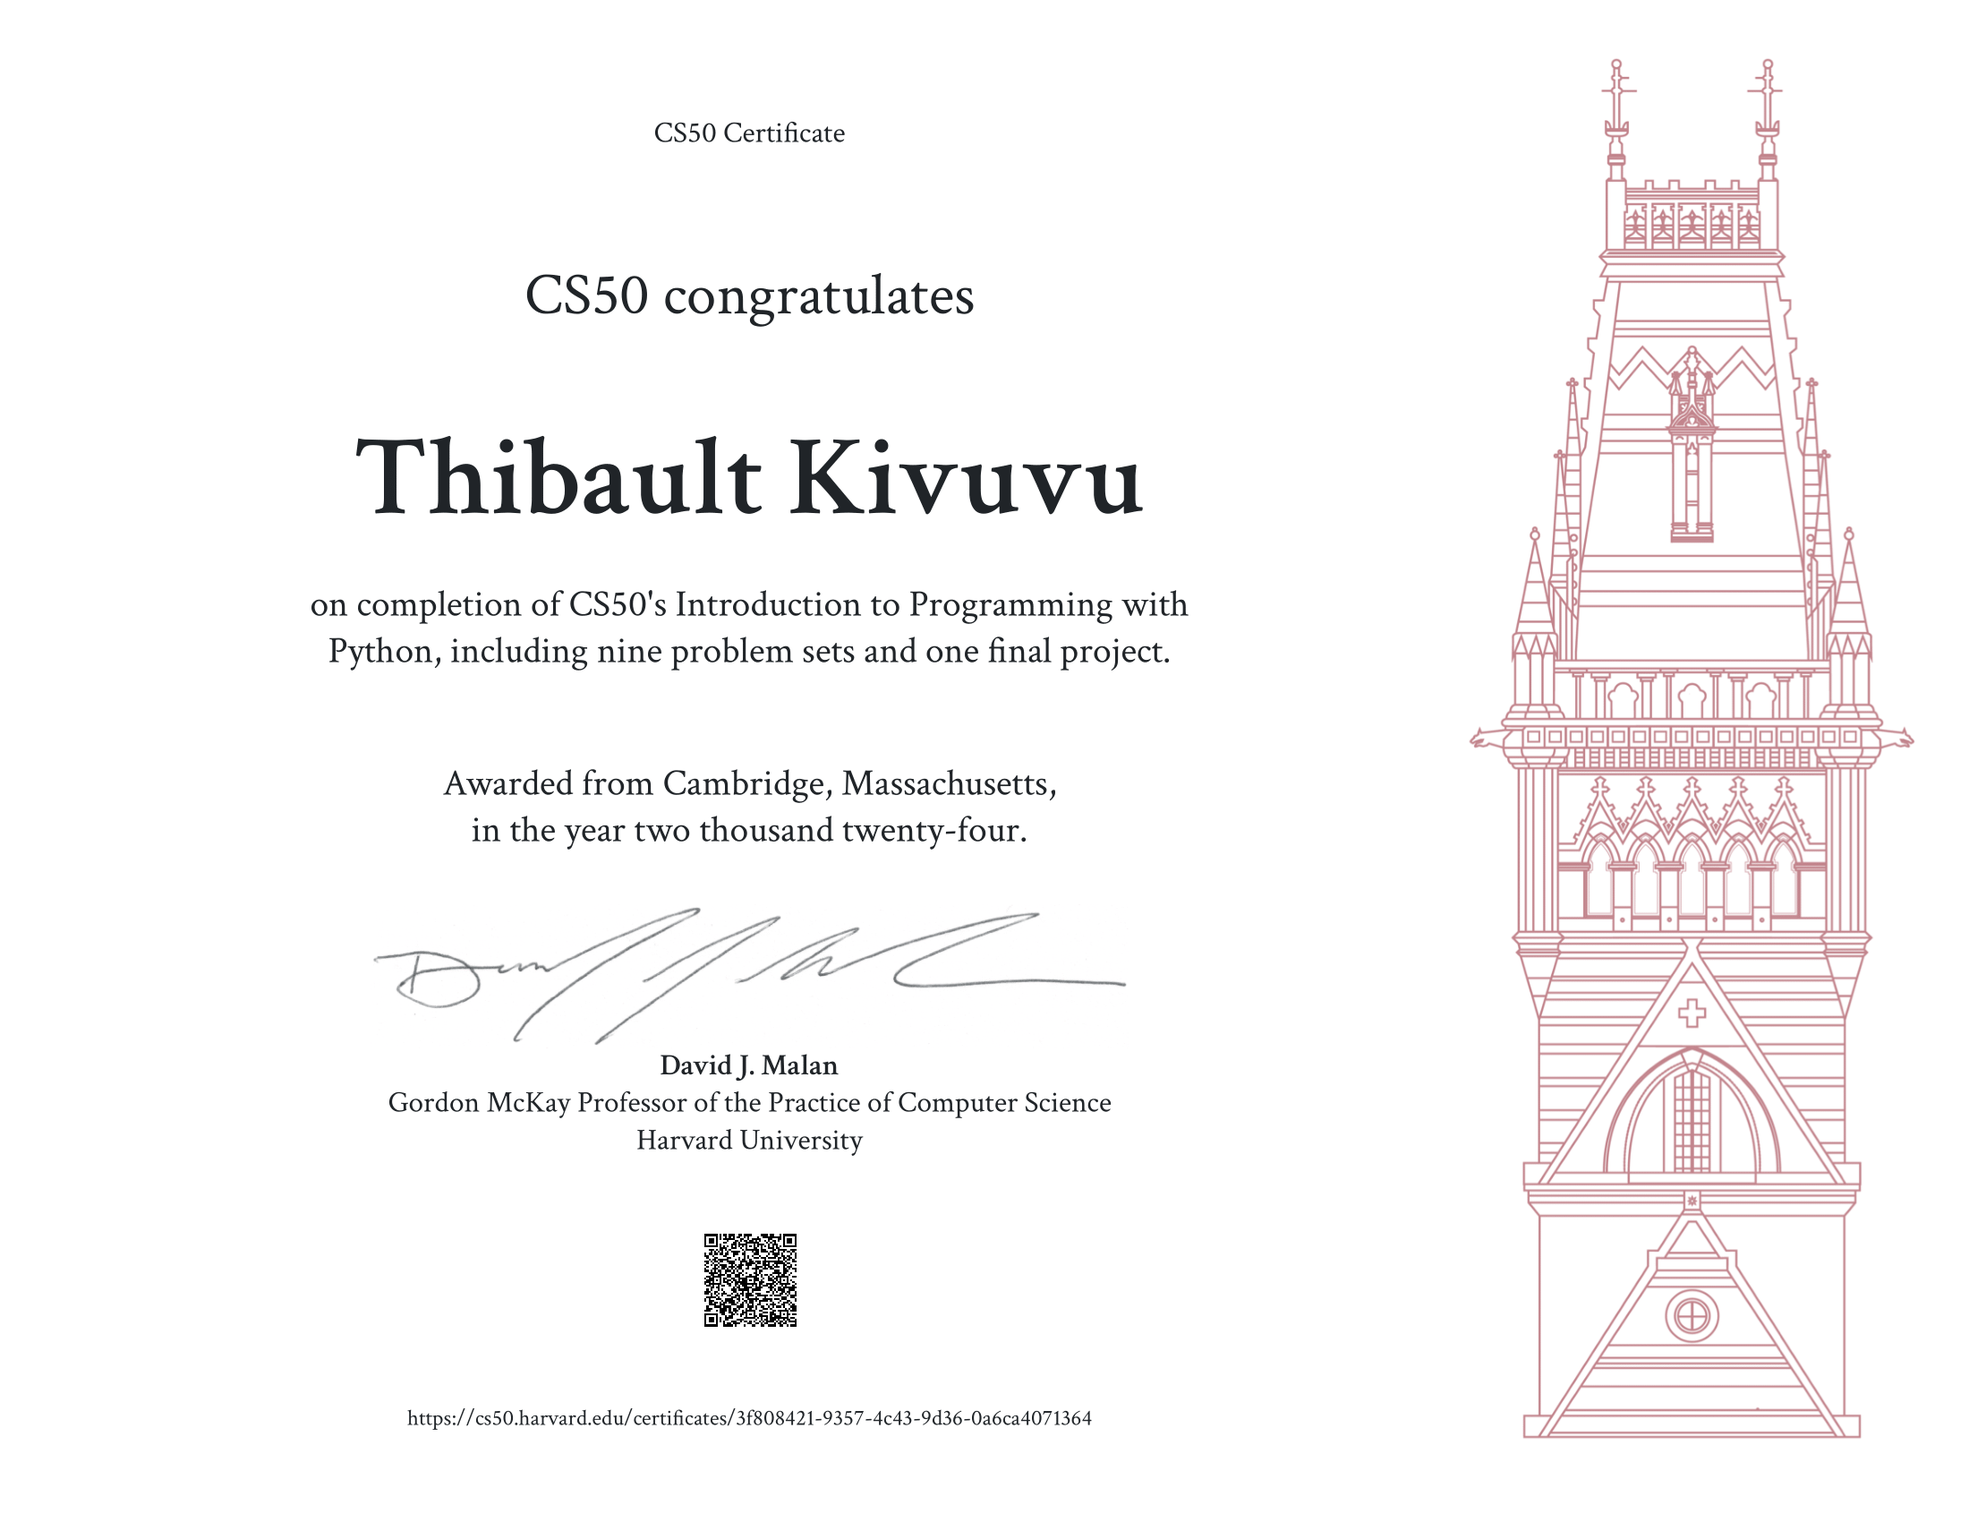
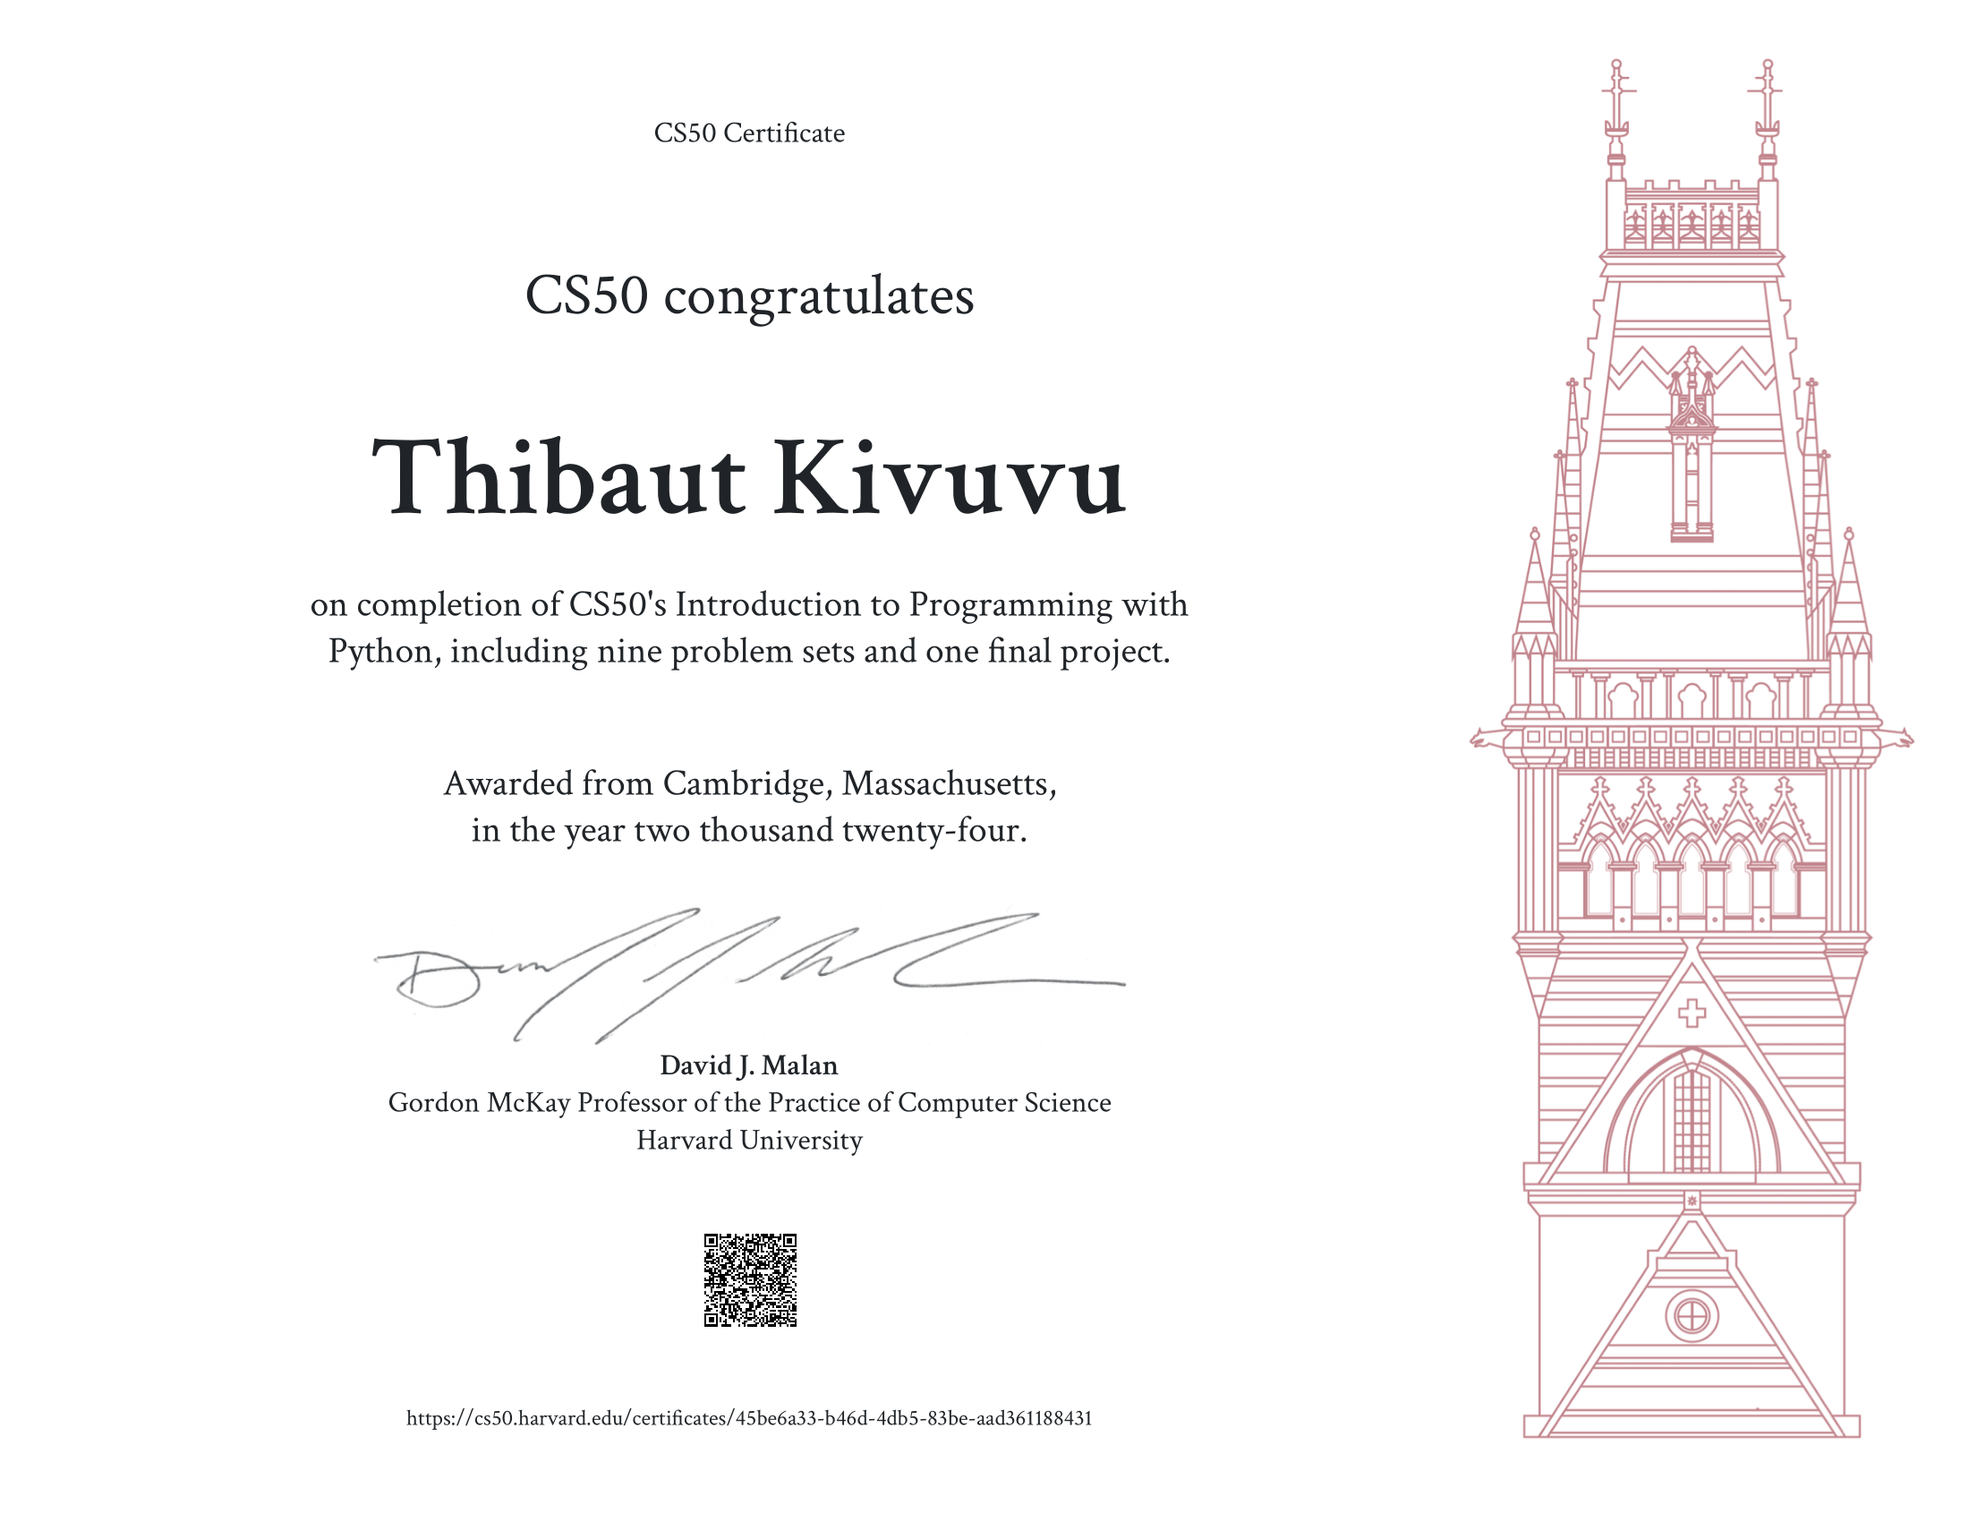
Update portfolio with CS50W completion and new projects

Changed region(s): [[0.1855, 0.2806, 0.5873, 0.3429], [0.3709, 0.9041, 0.5564, 0.9353], [0.34, 0.8106, 0.4018, 0.8729]]

diff --git a/projects.html b/projects.html
@@ -3,7 +3,7 @@
 <head>
   <meta charset="UTF-8">
   <meta name="viewport" content="width=device-width, initial-scale=1">
-  <title>Projects | Thibault Kivuvu</title>
+  <title>Projects | Thibaut Kivuvu</title>
 
   <!-- Bootstrap CSS -->
   <link href="https://cdn.jsdelivr.net/npm/bootstrap@5.3.3/dist/css/bootstrap.min.css" rel="stylesheet"
@@ -41,10 +41,135 @@
   <!-- Page Header -->
   <header class="py-5 text-center container">
     <h1 class="fw-bold mb-3">Projects</h1>
-    <p class="lead mb-0">Selected work from CS50P &amp; CS50x highlighting Python, web development, SQL, and full-stack skills.</p>
+    <p class="lead mb-0">
+      Selected work from CS50W, CS50P &amp; CS50x highlighting full-stack development with Django/Flask, JavaScript, SQL, and APIs.
+    </p>
   </header>
 
   <main>
+
+    <!-- CS50W Section (Most advanced first) -->
+    <section class="py-5" id="cs50w-projects">
+      <div class="container">
+        <h2 class="h3 fw-bold mb-4 text-center">🕸 CS50W Projects</h2>
+        <div class="row g-4">
+
+          <!-- F1 Analyst (Capstone) -->
+          <div class="col-md-6 col-lg-4">
+            <article class="card h-100 shadow-sm tk-proj-card">
+              <img src="assets/f1-analyst-demo.gif" class="card-img-top" alt="Demo of F1 Analyst">
+              <div class="card-body d-flex flex-column">
+                <h3 class="h5 card-title">F1 Analyst (Capstone)</h3>
+                <p class="card-text flex-grow-1">
+                  Full-stack Django web app for exploring Formula 1 data. Integrates the Ergast/Jolpica F1 API to display
+                  schedules, results, and stats with clean, data-driven pages and performance-minded caching.
+                </p>
+                <p class="small text-body-secondary mb-2">
+                  Why it’s strong: Django architecture, external API integration, reusable services, and UI built for real users.
+                </p>
+                <div class="mt-auto d-flex gap-2 flex-wrap">
+                  <a class="btn btn-sm btn-primary" href="https://github.com/tkivuvu/cs50w/tree/main/f1capstone" target="_blank" rel="noopener">GitHub</a>
+                  <button class="btn btn-sm btn-outline-secondary" data-bs-toggle="collapse" data-bs-target="#f1analyst-more" aria-expanded="false" aria-controls="f1analyst-more">More details</button>
+                </div>
+                <div class="collapse mt-3" id="f1analyst-more">
+                  <ul class="small mb-0 ps-3">
+                    <li>Django views + templates, structured routing, and reusable service layer for API calls.</li>
+                    <li>API-driven pages (drivers, constructors, race calendar/results) with sensible caching.</li>
+                    <li>Responsive layout with Bootstrap and dynamic navigation components.</li>
+                  </ul>
+                </div>
+              </div>
+            </article>
+          </div>
+
+          <!-- Network -->
+          <div class="col-md-6 col-lg-4">
+            <article class="card h-100 shadow-sm tk-proj-card">
+              <img src="assets/network-demo.gif" class="card-img-top" alt="Demo of Network">
+              <div class="card-body d-flex flex-column">
+                <h3 class="h5 card-title">Network (Social Network)</h3>
+                <p class="card-text flex-grow-1">
+                  Django social network app featuring user profiles, following/unfollowing, post creation, likes, and pagination.
+                  Uses JavaScript (fetch/AJAX) for dynamic interactions.
+                </p>
+                <p class="small text-body-secondary mb-2">
+                  Why it’s strong: auth + relational data modeling + asynchronous UI updates.
+                </p>
+                <div class="mt-auto d-flex gap-2 flex-wrap">
+                  <a class="btn btn-sm btn-primary" href="https://github.com/tkivuvu/cs50w/tree/main/project4" target="_blank" rel="noopener">GitHub</a>
+                  <button class="btn btn-sm btn-outline-secondary" data-bs-toggle="collapse" data-bs-target="#network-more" aria-expanded="false" aria-controls="network-more">More details</button>
+                </div>
+                <div class="collapse mt-3" id="network-more">
+                  <ul class="small mb-0 ps-3">
+                    <li>User authentication, profile pages, and follow graph relationships.</li>
+                    <li>Likes + edit-post features driven by fetch requests (no full page reload).</li>
+                    <li>Pagination + clean templates for readability and scalability.</li>
+                  </ul>
+                </div>
+              </div>
+            </article>
+          </div>
+
+          <!-- Mail -->
+          <div class="col-md-6 col-lg-4">
+            <article class="card h-100 shadow-sm tk-proj-card">
+              <img src="assets/mail-demo.gif" class="card-img-top" alt="Demo of Mail">
+              <div class="card-body d-flex flex-column">
+                <h3 class="h5 card-title">Mail (SPA Email Client)</h3>
+                <p class="card-text flex-grow-1">
+                  Single-page email client built with JavaScript. Loads Inbox/Sent/Archive views asynchronously and supports
+                  reading, replying, and archiving messages through API calls.
+                </p>
+                <p class="small text-body-secondary mb-2">
+                  Why it’s strong: front-end architecture, async fetch workflows, and state-driven UI.
+                </p>
+                <div class="mt-auto d-flex gap-2 flex-wrap">
+                  <a class="btn btn-sm btn-primary" href="https://github.com/tkivuvu/cs50w/tree/main/mail" target="_blank" rel="noopener">GitHub</a>
+                  <button class="btn btn-sm btn-outline-secondary" data-bs-toggle="collapse" data-bs-target="#mail-more" aria-expanded="false" aria-controls="mail-more">More details</button>
+                </div>
+                <div class="collapse mt-3" id="mail-more">
+                  <ul class="small mb-0 ps-3">
+                    <li>SPA navigation with dynamic rendering (compose, mailbox lists, detail view).</li>
+                    <li>Fetch requests for read/unread state and archive toggles.</li>
+                    <li>Reply flow that pre-fills and formats message context.</li>
+                  </ul>
+                </div>
+              </div>
+            </article>
+          </div>
+
+          <!-- Commerce -->
+          <div class="col-md-6 col-lg-4">
+            <article class="card h-100 shadow-sm tk-proj-card">
+              <img src="assets/commerce-demo.gif" class="card-img-top" alt="Demo of Commerce">
+              <div class="card-body d-flex flex-column">
+                <h3 class="h5 card-title">Commerce (Auctions)</h3>
+                <p class="card-text flex-grow-1">
+                  eBay-style auction platform with Django models for listings, bids, comments, and categories.
+                  Includes watchlists, bidding logic, and winner determination at close.
+                </p>
+                <p class="small text-body-secondary mb-2">
+                  Why it’s strong: database-driven features, forms, validation, and business rules.
+                </p>
+                <div class="mt-auto d-flex gap-2 flex-wrap">
+                  <a class="btn btn-sm btn-primary" href="https://github.com/tkivuvu/cs50w/tree/main/commerce" target="_blank" rel="noopener">GitHub</a>
+                  <button class="btn btn-sm btn-outline-secondary" data-bs-toggle="collapse" data-bs-target="#commerce-more" aria-expanded="false" aria-controls="commerce-more">More details</button>
+                </div>
+                <div class="collapse mt-3" id="commerce-more">
+                  <ul class="small mb-0 ps-3">
+                    <li>Django ORM modeling (listings, bids, comments, categories, watchlists).</li>
+                    <li>Authorization rules for bidding/closing and watchlist UX.</li>
+                    <li>Clean templates with reusable components and validation feedback.</li>
+                  </ul>
+                </div>
+              </div>
+            </article>
+          </div>
+
+        </div><!-- /.row -->
+      </div>
+    </section>
+
     <!-- CS50P Section -->
     <section class="py-5" id="cs50p-projects">
       <div class="container">
@@ -123,8 +248,6 @@
                 <p class="small text-body-secondary mb-2">Why it’s strong: full-stack app; API + DB + templating; interactive UI.</p>
                 <div class="mt-auto d-flex gap-2 flex-wrap">
                   <a class="btn btn-sm btn-primary" href="https://github.com/tkivuvu/cs50x/tree/main/project" target="_blank" rel="noopener">GitHub</a>
-                  <!-- Add live demo link when ready -->
-                  <!-- <a class=\"btn btn-sm btn-success\" href=\"https://your-demo-url\" target=\"_blank\" rel=\"noopener\">Live Demo</a> -->
                   <button class="btn btn-sm btn-outline-secondary" data-bs-toggle="collapse" data-bs-target="#nba-more" aria-expanded="false" aria-controls="nba-more">More details</button>
                 </div>
                 <div class="collapse mt-3" id="nba-more">
@@ -221,7 +344,7 @@
 
   <!-- Footer -->
   <footer class="py-4 text-center small text-body-secondary">
-    &copy; 2025 Thibault Kivuvu
+    &copy; 2025 Thibaut Kivuvu
   </footer>
 
   <!-- Bootstrap Bundle JS -->

diff --git a/index.html b/index.html
@@ -3,7 +3,7 @@
 <head>
     <meta charset="UTF-8">
     <meta name="viewport" content="width=device-width, initial-scale=1">
-    <title>Thibault Kivuvu | Portfolio</title>
+    <title>Thibaut Kivuvu | Portfolio</title>
 
     <!-- Bootstrap CSS -->
     <link href="https://cdn.jsdelivr.net/npm/bootstrap@5.3.3/dist/css/bootstrap.min.css" rel="stylesheet" integrity="sha384-QWTKZyjpPEjISv5WaRU9OFeRpok6YctnYmDr5pNlyT2bRjXh0JMhjY6hW+ALEwIH" crossorigin="anonymous">
@@ -38,35 +38,47 @@
 
     <!-- Hero / About -->
     <header id="about" class="py-5 py-lg-6 text-center container">
-        <h1 class="display-5 fw-bold mb-3">Thibault Kivuvu</h1>
-        <p class="lead mb-2">Self-taught developer based in Montreal. Fluent in English & French.</p>
-        <p class="lead mb-4">Completed Harvard's CS50x & CS50P — learned CS fundamentals, Python, web dev, SQL, and APIs.</p>
-        <p class="mb-0">Passionate about building web tools & data-driven apps. Seeking opportunities in web development or data analysis.</p>
-        <!-- Certifications -->
-        <p class="mt-4">
-        <strong>Certifications:</strong>
-        <a href="https://cs50.harvard.edu/certificates/adcc6246-5c09-4a01-a3fd-b982d87c292b" target="_blank" rel="noopener">
-            <img src="assets/cs50x-badge.png" alt="CS50x Certificate" height="40">
-        </a>
-        <a href="https://cs50.harvard.edu/certificates/3f808421-9357-4c43-9d36-0a6ca4071364" target="_blank" rel="noopener">
-            <img src="assets/cs50p-badge.png" alt="CS50P Certificate" height="40">
-        </a>
+        <h1 class="display-5 fw-bold mb-3">Thibaut Kivuvu</h1>
+        <p class="lead mb-2">Self-taught developer based in Montreal. Fluent in English &amp; French.</p>
+        <p class="lead mb-4">
+            Completed Harvard's CS50x, CS50P &amp; CS50W — learned CS fundamentals, Python, Django, JavaScript,
+            web development, SQL, and APIs.
+        </p>
+        <p class="mb-0">
+            Passionate about building web tools &amp; data-driven apps. Seeking opportunities in web development or data analysis.
         </p>
 
+        <!-- Certifications -->
+        <p class="mt-4">
+            <strong>Certifications:</strong>
+            <a href="https://cs50.harvard.edu/certificates/adcc6246-5c09-4a01-a3fd-b982d87c292b" target="_blank" rel="noopener">
+                <img src="assets/cs50x-badge.png" alt="CS50x Certificate" height="40">
+            </a>
+            <a href="https://cs50.harvard.edu/certificates/3f808421-9357-4c43-9d36-0a6ca4071364" target="_blank" rel="noopener">
+                <img src="assets/cs50p-badge.png" alt="CS50P Certificate" height="40">
+            </a>
+            <!-- CS50W -->
+            <a href="https://cs50.harvard.edu/certificates/768e7fd4-ba06-49c2-8592-6d6883ef5311" target="_blank" rel="noopener">
+                <img src="assets/cs50w-badge.png" alt="CS50W Certificate" height="40">
+            </a>
+        </p>
+        
     </header>
 
     <!-- Skills Section -->
     <section id="skills" class="py-5 bg-body-tertiary">
         <div class="container text-center">
-            <h2 class="h3 fw-bold mb-4">Skills & Technologies</h2>
+            <h2 class="h3 fw-bold mb-4">Skills &amp; Technologies</h2>
             <div class="d-flex flex-wrap justify-content-center gap-2">
                 <span class="badge rounded-pill text-bg-primary">Python</span>
+                <span class="badge rounded-pill text-bg-primary">Django</span>
                 <span class="badge rounded-pill text-bg-primary">Flask</span>
                 <span class="badge rounded-pill text-bg-primary">JavaScript</span>
+                <span class="badge rounded-pill text-bg-primary">AJAX / fetch</span>
                 <span class="badge rounded-pill text-bg-primary">HTML &amp; CSS</span>
                 <span class="badge rounded-pill text-bg-primary">SQL</span>
                 <span class="badge rounded-pill text-bg-primary">Git &amp; GitHub</span>
-                <span class="badge rounded-pill text-bg-primary">APIs</span>
+                <span class="badge rounded-pill text-bg-primary">REST APIs</span>
                 <span class="badge rounded-pill text-bg-primary">Unit Testing</span>
             </div>
         </div>
@@ -74,7 +86,7 @@
 
     <!-- Footer -->
     <footer class="py-4 text-center small text-body-secondary">
-        &copy; 2025 Thibault Kivuvu
+        &copy; 2025 Thibaut Kivuvu
     </footer>
 
     <!-- Bootstrap Bundle JS -->

diff --git a/styles.css b/styles.css
@@ -173,21 +173,54 @@ footer a:hover {
   transform: none;
 }
 
-
-/* Project cards */
+/* -------------------------------------------------------
+   Project cards
+   ------------------------------------------------------- */
 .tk-proj-card {
   transition: transform 0.18s ease, box-shadow 0.18s ease;
 }
+
 .tk-proj-card:hover {
   transform: translateY(-4px) scale(1.01);
   box-shadow: 0 0.5rem 1.25rem rgba(0,0,0,.15);
 }
+
 .tk-proj-card .card-title {
   margin-bottom: 0.5rem;
 }
+
 .tk-proj-card .card-text {
   margin-bottom: 0.75rem;
 }
+
 .tk-proj-card ul li {
   margin-bottom: 0.25rem;
+}
+
+/* Keep consistent height but avoid cropping (letterboxing) */
+.tk-proj-card .card-img-top {
+  height: 220px;           /* you can tweak this */
+  width: 100%;
+  object-fit: contain;     /* no crop, adds empty space if needed */
+  background-color: var(--bs-secondary-bg);
+}
+
+/* NEW: optional placeholder area if you add a "no image" block later */
+.tk-proj-media-placeholder {
+  height: 190px;
+  display: flex;
+  align-items: center;
+  justify-content: center;
+  background-color: var(--bs-secondary-bg);
+  color: var(--bs-body-color);
+  border-bottom: 1px solid var(--bs-border-color);
+}
+
+/* NEW: optional "featured" style (great for your capstone) */
+.tk-proj-card.tk-featured {
+  border: 1px solid var(--bs-border-color);
+}
+
+html[data-bs-theme='dark'] .tk-proj-card.tk-featured {
+  box-shadow: 0 0.75rem 2rem rgba(0,0,0,.35);
 }

diff --git a/contact.html b/contact.html
@@ -52,7 +52,7 @@
                 <h2 class="h5 fw-bold mb-3">Contact Information</h2>
                 <p class="mb-2"><strong>Email:</strong> <a href="mailto:t.kivuvu@yahoo.com">t.kivuvu@yahoo.com</a></p>
                 <p class="mb-2"><strong>GitHub:</strong> <a href="https://github.com/tkivuvu" target="_blank" rel="noopener">github.com/tkivuvu</a></p>
-                <p class="mb-0"><strong>LinkedIn:</strong> <a href="https://www.linkedin.com/in/thibault-kivuvu-aa5459375/" target="_blank" rel="noopener">linkedin.com/in/thibaultkivuvu</a></p>
+                <p class="mb-0"><strong>LinkedIn:</strong> <a href="https://www.linkedin.com/in/thibaut-kivuvu-aa5459375/" target="_blank" rel="noopener">linkedin.com/in/thibaultkivuvu</a></p>
               </div>
             </div>
           </div>
